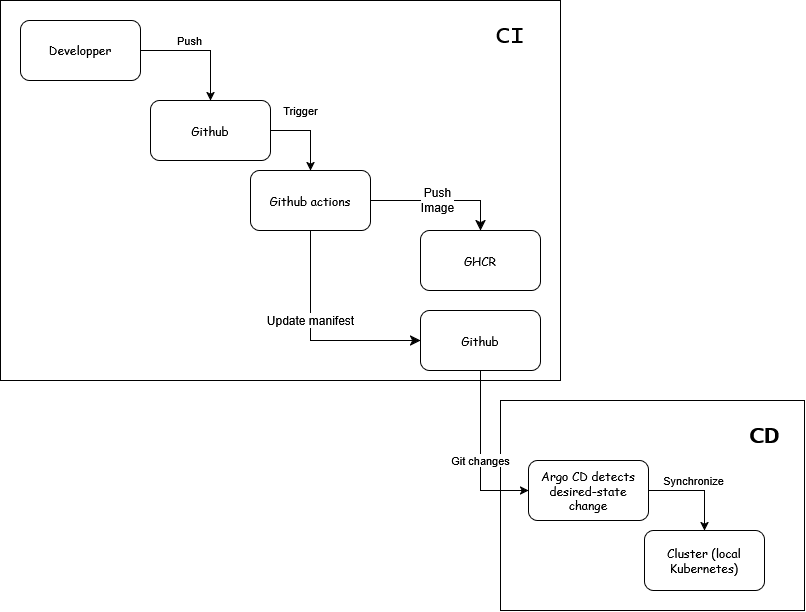
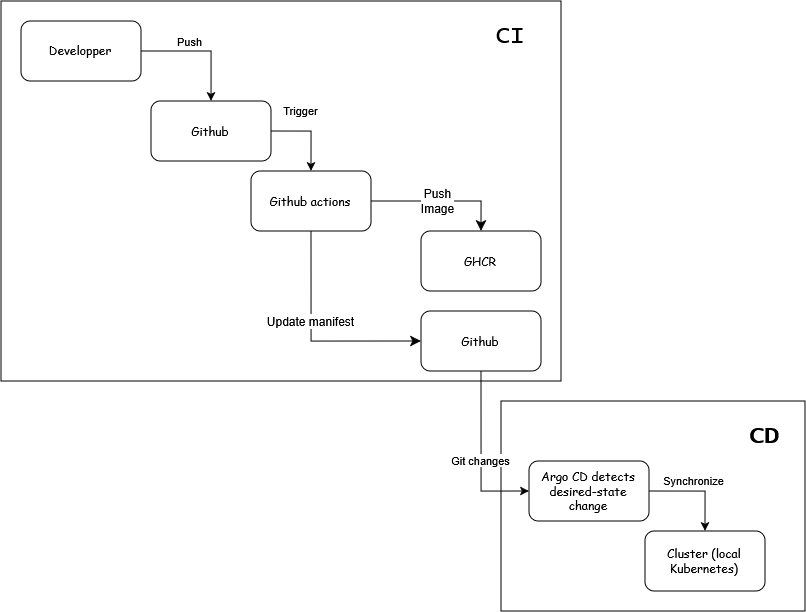
test argocd + edit the readme to delete bash

diff --git a/README.md b/README.md
@@ -82,7 +82,7 @@ Argo CD continuously monitors the Git repository and automatically synchronizes 
   ├── manifests/
   │   ├── deployment.yaml
   │   └── service.yaml
-  ├── Diagram
+  ├── Diagram.png
   └── README.md
 </pre>
 
@@ -105,25 +105,25 @@ Before deploying to Kubernetes, the container can be tested independently using 
 
 1. Build the image
 Command
-```bash docker build -t gitops-demo-app:v1 .```
+```docker build -t gitops-demo-app:v1 .```
 
 2. Run the container
 Command:
-```bash docker run -d -p 5000:5000 --name demo-test gitops-demo-app:v1```
+```docker run -d -p 5000:5000 --name demo-test gitops-demo-app:v1```
 
 3. Check the user:
 Command:
-```bash docker exec demo-test whoami```
+```docker exec demo-test whoami```
 Output:
 ```app```
 4. Check the application responsiveness
 Command:
-```bash curl localhost:5000```
+```curl localhost:5000```
 Output:
 GitOps demo app is running
 5. Check the release version
 Command:
-```bash curl localhost:5000/version```
+```curl localhost:5000/version```
 Output:
 ```v1```
 
@@ -157,9 +157,9 @@ To fix it, there are 2 solutions :
 
 The second approach is more practical.
 Add the current user to the Docker group:
-```bash sudo usermod -aG docker $USER```
+```sudo usermod -aG docker $USER```
 After logging out and back in, or restarting the WSL session, verify the user's groups:
-```bash groups```
+```groups```
 
 ## Future Improvements
 
@@ -169,11 +169,18 @@ After logging out and back in, or restarting the WSL session, verify the user's 
 - Add Prometheus/Grafana for monitoring and observability.
 - Add automated security scanning for container images.
 
-GitHub Actions | Kubernetes | Argo CD | Docker | GitOps
-
 ## Tech Stack
 
-- **Kubernetes**:
-  - Excellent control of the resources: ```resources.requests ```/```resources.requests ```allows to get a precise control over the resouces to prevent the container to go wild and accaparate all the resources for itself or to starve and not get enough.
+| Category | Technology | Purpose |
+|---|---|---|
+| Application | Python | Sample application |
+| Containerization | Docker | Build the application image |
+| CI | GitHub Actions | Build and publish the image |
+| Container Registry | GHCR | Store container images |
+| CD / GitOps | Argo CD | Synchronize Kubernetes resources |
+| Orchestration | Kubernetes | Run the application |
+| Local Kubernetes | kind | Local Kubernetes cluster |
+| Development Environment | WSL2 / Ubuntu | Local development environment |
+| Version Control | Git / GitHub | Source code and desired state |
 
-  
+GitHub Actions | Kubernetes | Argo CD | Docker | GitOps
